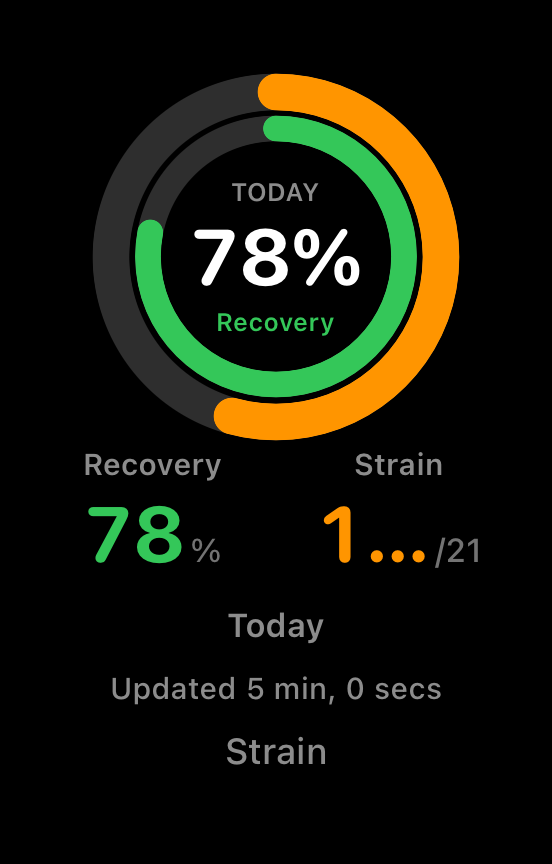
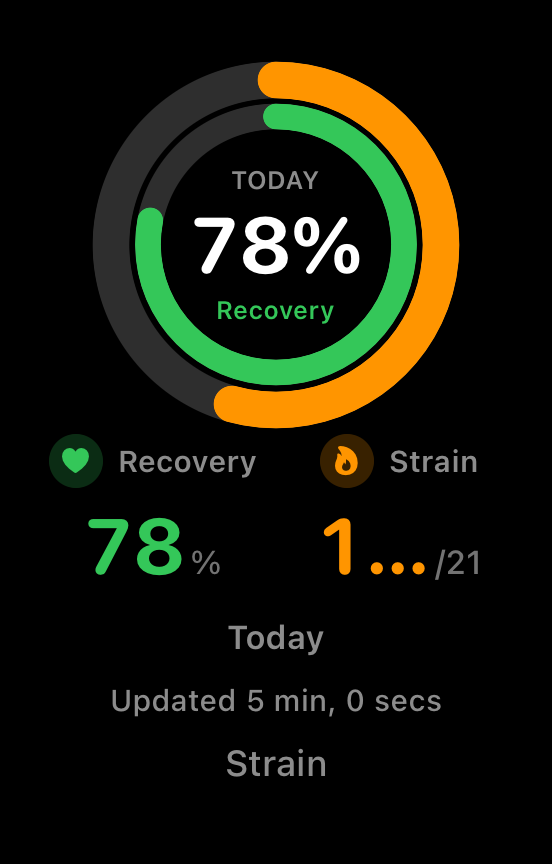
Honest #99: Watch dual-callout circular tint wells (#117)
Compact 18pt wells on Hours|Eff, Recovery|Strain, and HRV|RHR
Watch/widget dual callouts for Apple chrome parity with phone duals.
Refresh verify-watch-sleep/strain/dashboard audit PNGs + feature map.

diff --git a/ReadinessTracker/Design/WatchSleepChrome.swift b/ReadinessTracker/Design/WatchSleepChrome.swift
@@ -23,12 +23,19 @@ struct WatchSleepChrome: View {
     var body: some View {
         VStack(spacing: 10) {
             HStack(spacing: 12) {
-                dualCallout(label: "Hours", value: String(format: "%.1f", sleepHours), unit: "h", color: indigo)
+                dualCallout(
+                    label: "Hours",
+                    value: String(format: "%.1f", sleepHours),
+                    unit: "h",
+                    color: indigo,
+                    icon: "moon.fill"
+                )
                 dualCallout(
                     label: "Eff",
                     value: "\(Int((sleepEfficiency * 100).rounded()))",
                     unit: "%",
-                    color: teal
+                    color: teal,
+                    icon: "bolt.fill"
                 )
             }
 
@@ -78,11 +85,23 @@ struct WatchSleepChrome: View {
         .background(Color.black)
     }
 
-    private func dualCallout(label: String, value: String, unit: String, color: Color) -> some View {
-        VStack(spacing: 2) {
-            Text(label)
-                .font(.system(size: 10, weight: .semibold))
-                .foregroundStyle(Color.white.opacity(0.55))
+    private func dualCallout(label: String, value: String, unit: String, color: Color, icon: String? = nil) -> some View {
+        VStack(spacing: 4) {
+            HStack(spacing: 5) {
+                // Honest #99: compact circular tint well on Watch/widget dual callouts.
+                if let icon {
+                    Image(systemName: icon)
+                        .font(.system(size: 9, weight: .semibold))
+                        .foregroundStyle(color)
+                        .frame(width: 18, height: 18)
+                        .background(color.opacity(0.22))
+                        .clipShape(Circle())
+                        .accessibilityHidden(true)
+                }
+                Text(label)
+                    .font(.system(size: 10, weight: .semibold))
+                    .foregroundStyle(Color.white.opacity(0.55))
+            }
             HStack(alignment: .firstTextBaseline, spacing: 1) {
                 Text(value)
                     .font(.system(size: 26, weight: .bold, design: .rounded))

diff --git a/ReadinessTracker/Design/CompactStrainRecoveryWheel.swift b/ReadinessTracker/Design/CompactStrainRecoveryWheel.swift
@@ -118,13 +118,15 @@ struct WatchStrainChrome: View {
                     label: "Recovery",
                     value: "\(Int(recoveryScore.rounded()))",
                     unit: "%",
-                    color: recoveryColor
+                    color: recoveryColor,
+                    icon: "heart.fill"
                 )
                 dualCallout(
                     label: "Strain",
                     value: String(format: "%.1f", strainScore),
                     unit: "/21",
-                    color: strainColor
+                    color: strainColor,
+                    icon: "flame.fill"
                 )
             }
 
@@ -151,11 +153,23 @@ struct WatchStrainChrome: View {
         .background(Color.black)
     }
 
-    private func dualCallout(label: String, value: String, unit: String, color: Color) -> some View {
-        VStack(spacing: 2) {
-            Text(label)
-                .font(.system(size: 10, weight: .semibold))
-                .foregroundStyle(Color.white.opacity(0.55))
+    private func dualCallout(label: String, value: String, unit: String, color: Color, icon: String? = nil) -> some View {
+        VStack(spacing: 4) {
+            HStack(spacing: 5) {
+                // Honest #99: compact circular tint well on Watch/widget dual callouts.
+                if let icon {
+                    Image(systemName: icon)
+                        .font(.system(size: 9, weight: .semibold))
+                        .foregroundStyle(color)
+                        .frame(width: 18, height: 18)
+                        .background(color.opacity(0.22))
+                        .clipShape(Circle())
+                        .accessibilityHidden(true)
+                }
+                Text(label)
+                    .font(.system(size: 10, weight: .semibold))
+                    .foregroundStyle(Color.white.opacity(0.55))
+            }
             HStack(alignment: .firstTextBaseline, spacing: 1) {
                 Text(value)
                     .font(.system(size: 26, weight: .bold, design: .rounded))

diff --git a/ReadinessTracker/Design/CompactTripleRingsView.swift b/ReadinessTracker/Design/CompactTripleRingsView.swift
@@ -825,8 +825,8 @@ struct WatchDashboardChrome: View {
             )
 
             HStack(spacing: 12) {
-                dualCallout(label: "HRV", value: "\(Int(hrv))", unit: "ms", color: hrvColor)
-                dualCallout(label: "RHR", value: "\(Int(restingHeartRate))", unit: "bpm", color: rhrColor)
+                dualCallout(label: "HRV", value: "\(Int(hrv))", unit: "ms", color: hrvColor, icon: "waveform.path.ecg")
+                dualCallout(label: "RHR", value: "\(Int(restingHeartRate))", unit: "bpm", color: rhrColor, icon: "heart.fill")
             }
 
             HStack(spacing: 6) {
@@ -861,11 +861,23 @@ struct WatchDashboardChrome: View {
         .background(Color.black)
     }
 
-    private func dualCallout(label: String, value: String, unit: String, color: Color) -> some View {
-        VStack(spacing: 2) {
-            Text(label)
-                .font(.system(size: 10, weight: .semibold))
-                .foregroundStyle(Color.white.opacity(0.55))
+    private func dualCallout(label: String, value: String, unit: String, color: Color, icon: String? = nil) -> some View {
+        VStack(spacing: 4) {
+            HStack(spacing: 5) {
+                // Honest #99: compact circular tint well on Watch/widget dual callouts.
+                if let icon {
+                    Image(systemName: icon)
+                        .font(.system(size: 9, weight: .semibold))
+                        .foregroundStyle(color)
+                        .frame(width: 18, height: 18)
+                        .background(color.opacity(0.22))
+                        .clipShape(Circle())
+                        .accessibilityHidden(true)
+                }
+                Text(label)
+                    .font(.system(size: 10, weight: .semibold))
+                    .foregroundStyle(Color.white.opacity(0.55))
+            }
             HStack(alignment: .firstTextBaseline, spacing: 1) {
                 Text(value)
                     .font(.system(size: 26, weight: .bold, design: .rounded))

diff --git a/.cursor/skills/verify-readiness-tracker/features/watch-dual-callout-wells.md b/.cursor/skills/verify-readiness-tracker/features/watch-dual-callout-wells.md
@@ -1,0 +1,19 @@
+# Watch dual-callout wells
+
+## Sub-features
+- Compact circular tint wells on Watch/widget dual callouts:
+  - WatchSleepChrome Hours|Eff
+  - CompactStrainRecoveryWheel Recovery|Strain
+  - CompactTripleRingsView HRV|RHR
+
+## How to get to it (user POV)
+1. Apple Watch Sleep / Strain / Dashboard surfaces (or audit chrome renders)
+
+## Driving it with the harness
+- `scripts/capture-watch-sleep.sh` → `.audit/verify-watch-sleep.png`
+- `scripts/capture-watch-strain.sh` → `.audit/verify-watch-strain.png`
+- Dashboard capture refreshes HRV|RHR chrome when run
+
+## Gotchas
+- Wells are 18pt for Watch density (phone duals stay 22–26pt)
+- No Fitness+ invent; keep Gym/Work/Sleep + Recovery 0–100 / Strain 0–21

diff --git a/.cursor/skills/verify-readiness-tracker/features/README.md b/.cursor/skills/verify-readiness-tracker/features/README.md
@@ -32,3 +32,4 @@
 | Tonight|Baseline wells | `tonight-baseline-wells.md` | Sleep HRV/Resp/SkinTemp dual wells |
 | Sleep Need|Got wells | `sleep-need-got-wells.md` | Sleep Performance Need|Got circular wells |
 | Strain balance column wells | `strain-balance-column-wells.md` | Recovery|Strain dual column wells |
+| Watch dual-callout wells | `watch-dual-callout-wells.md` | Watch Hours|Eff / Recovery|Strain / HRV|RHR wells |
